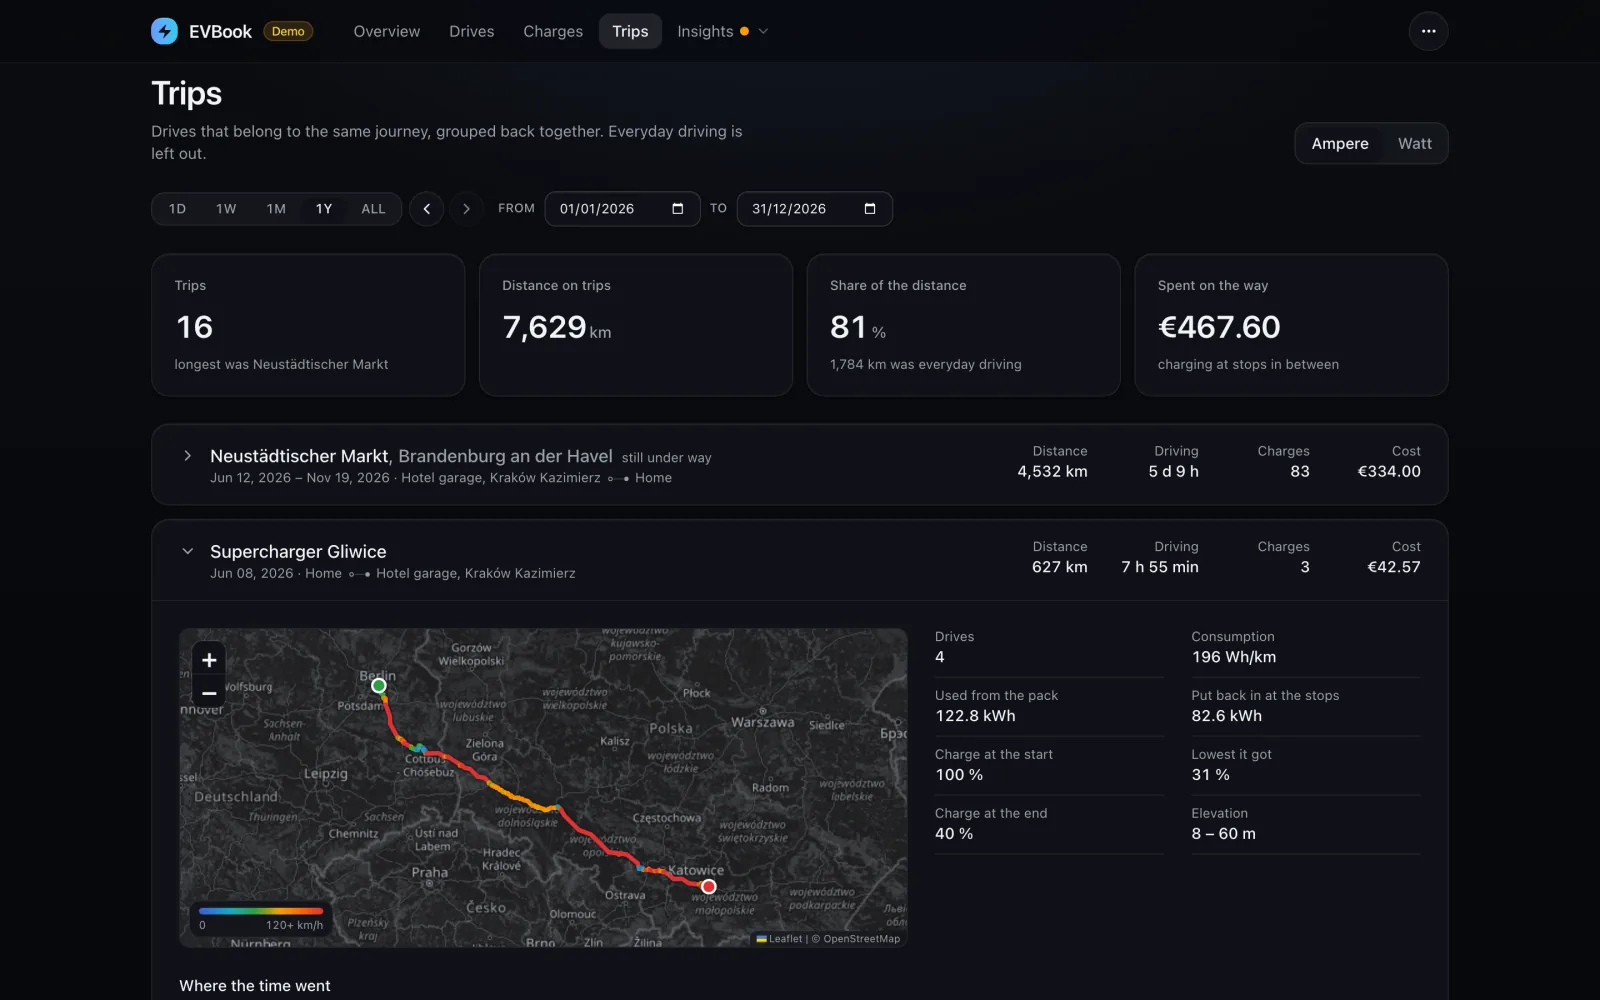
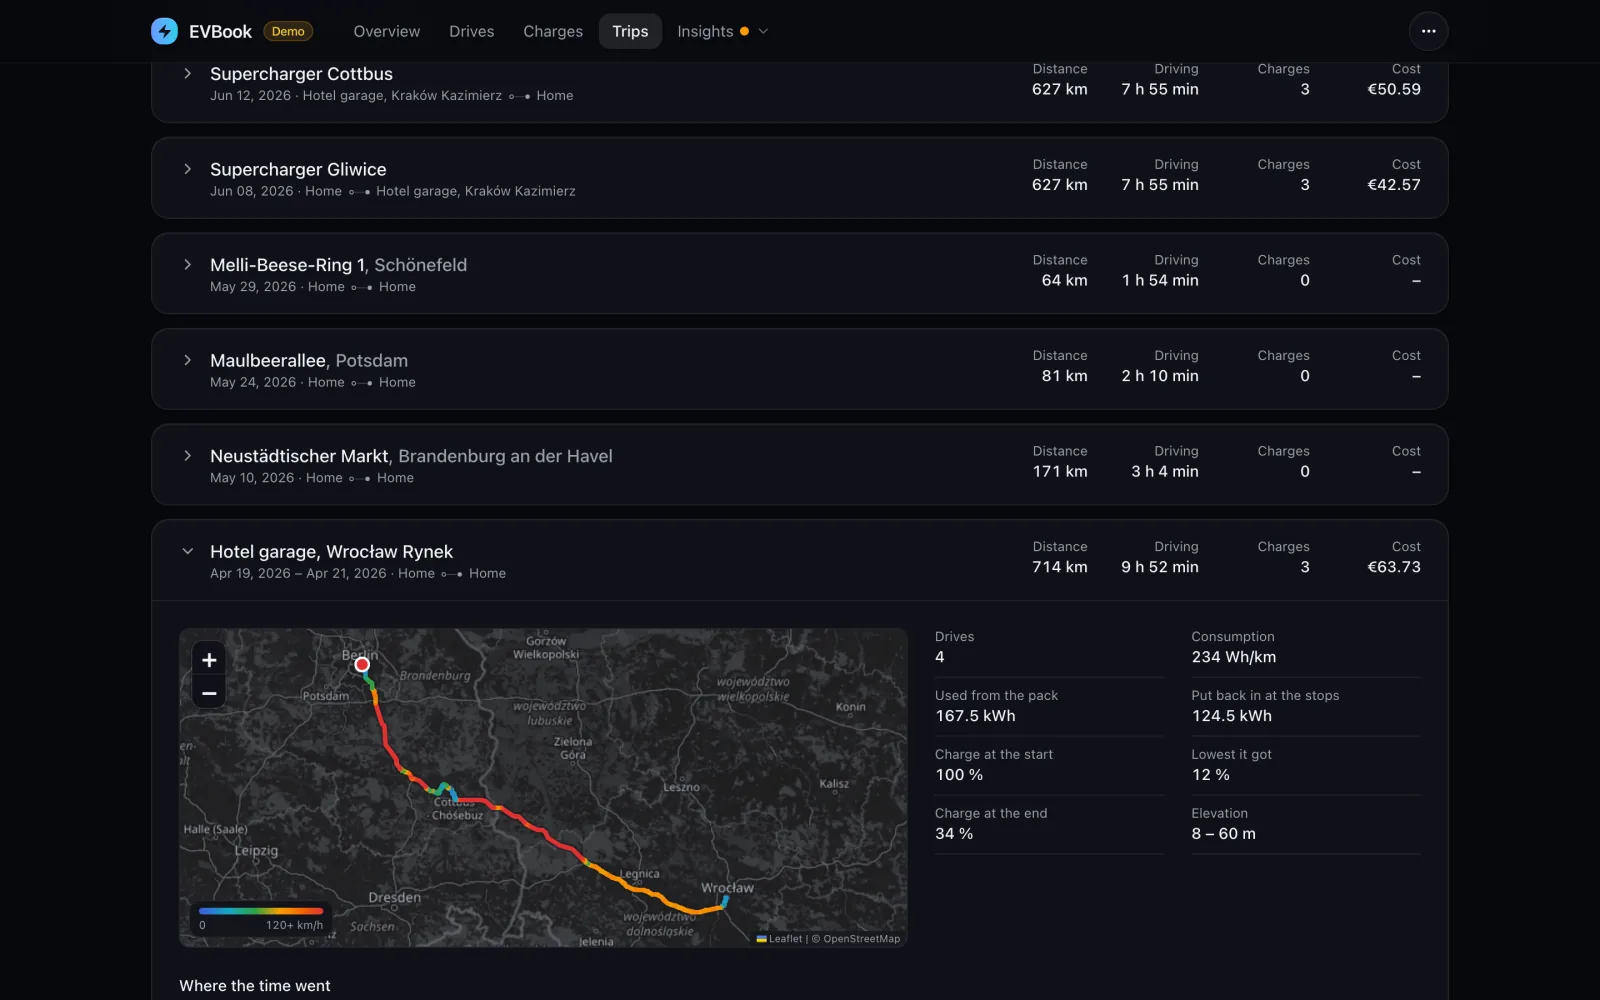
End the way home at home after a stay of days away
Two days parked ends a run wherever it is, so a stay of three nights at the
far end of a journey ended the outward trip at the hotel. The way back then
had only the hotel to return to: it never ended, and every drive after it
was glued on as one trip still under way months later. A run that rule 2
ends away from its origin now passes that origin on, so the next run also
ends when the car settles back there.

The trips screenshot opened the second row, which relied on the newest trip
being the broken one; it now opens the longest trip listed.

diff --git a/src/core/trips.ts b/src/core/trips.ts
@@ -15,7 +15,9 @@
  *    because an overnight stop on a road trip is longer than an evening at home.
  * 2. **You stopped moving.** Two days parked ends a run wherever it is. This is
  *    the net under rule 1, for the journey that never returns and for the drive
- *    whose place the geocoder never resolved.
+ *    whose place the geocoder never resolved. When it ends a run away from where
+ *    that run began, the next run can still end by coming back there: the way
+ *    home after a long stay is over at home.
  *
  * Then a run has to be worth calling a trip: far enough, and more than one drive.
  * A single long drive is already a first-class thing here with its own page, map
@@ -216,14 +218,19 @@ function lastDrive(run: TripDrive[]): TripDrive {
   return run.reduce((furthest, drive) => (endOf(drive) >= endOf(furthest) ? drive : furthest));
 }
 
-function isBoundary(run: TripDrive[], origin: TripPlace | null, nextAt: number, opts: TripOptions): boolean {
+/** Whether the car is standing at one of the places a return would come back to. */
+function isAt(place: TripPlace, homes: TripPlace[]): boolean {
+  return homes.some((home) => samePlace(place, home));
+}
+
+function isBoundary(run: TripDrive[], homes: TripPlace[], nextAt: number, opts: TripOptions): boolean {
   if (run.length === 0) return false;
 
   const previous = lastDrive(run);
   const gap = nextAt - endOf(previous);
   if (gap >= opts.longStopMs) return true;
 
-  return origin != null && samePlace(previous.endPlace, origin) && gap >= opts.returnStopMs;
+  return isAt(previous.endPlace, homes) && gap >= opts.returnStopMs;
 }
 
 function qualifies(run: TripDrive[], opts: TripOptions): boolean {
@@ -244,29 +251,41 @@ function qualifies(run: TripDrive[], opts: TripOptions): boolean {
  */
 export function detectTrips(input: TripDrive[], opts: TripOptions): TripRun[] {
   const drives = normalizeTripDrives(input);
-  const runs: { origin: TripPlace | null; drives: TripDrive[] }[] = [];
+  const runs: { homes: TripPlace[]; drives: TripDrive[] }[] = [];
   let current: TripDrive[] = [];
-  let origin: TripPlace | null = null;
+  // The places a return to would end the current run: its own origin, and the
+  // origins of the runs before it that rule 2 ended away from home. A stay of
+  // days at the far end ends the outward run there, so the way back starts from
+  // the hotel — and with only the hotel to return to, it never ended, and every
+  // commute after it was glued on as one trip still under way months later.
+  let homes: TripPlace[] = [];
   // Where the car stood before the current run began — carried across the
   // boundary so `originOf` can prefer it over the opening drive's start.
   let parkedAt: TripPlace | null = null;
+  let carried: TripPlace[] = [];
 
   for (const drive of drives) {
-    if (current.length > 0 && isBoundary(current, origin, drive.startAt, opts)) {
-      runs.push({ origin, drives: current });
+    if (current.length > 0 && isBoundary(current, homes, drive.startAt, opts)) {
+      runs.push({ homes, drives: current });
       parkedAt = lastDrive(current).endPlace;
+      // Back at a home: the journey is over and nothing carries. Anywhere else,
+      // the homes stay places the next run can come back to.
+      carried = isAt(parkedAt, homes) ? [] : homes;
       current = [];
     }
-    if (current.length === 0) origin = originOf(parkedAt, drive);
+    if (current.length === 0) {
+      const origin = originOf(parkedAt, drive);
+      homes = origin == null ? carried : [origin, ...carried.filter((home) => !samePlace(home, origin))];
+    }
     current.push(drive);
   }
-  if (current.length > 0) runs.push({ origin, drives: current });
+  if (current.length > 0) runs.push({ homes, drives: current });
 
   return (
     runs
       .filter((run) => qualifies(run.drives, opts))
       // The trailing gap is measured against now, so a run that ended last month is
       // closed by rule 2 without anything having to follow it.
-      .map((run) => ({ drives: run.drives, closed: isBoundary(run.drives, run.origin, opts.now, opts) }))
+      .map((run) => ({ drives: run.drives, closed: isBoundary(run.drives, run.homes, opts.now, opts) }))
   );
 }

diff --git a/src/core/trips.test.ts b/src/core/trips.test.ts
@@ -107,6 +107,40 @@ describe("trip detection", () => {
     ]);
   });
 
+  it("ends the way home at home after a stay of days at the far end", () => {
+    // Three nights at the hotel end the outward run by rule 2, so the way back
+    // starts from the hotel. It is over once the car is home, not when it next
+    // stands still for two days: the commute that follows is not part of it.
+    const trips = detect([
+      drive({ id: 1, at: START, km: 300, from: "home", to: "charger" }),
+      drive({ id: 2, at: START + 4 * HOUR, km: 200, from: "charger", to: "hotel" }),
+      drive({ id: 3, at: START + 4 * DAY, km: 200, from: "hotel", to: "charger" }),
+      drive({ id: 4, at: START + 4 * DAY + 4 * HOUR, km: 300, from: "charger", to: "home" }),
+      drive({ id: 5, at: START + 5 * DAY, km: 25, from: "home", to: "work" }),
+      drive({ id: 6, at: START + 5 * DAY + 9 * HOUR, km: 25, from: "work", to: "home" }),
+      drive({ id: 7, at: START + 6 * DAY, km: 25, from: "home", to: "work" }),
+      drive({ id: 8, at: START + 6 * DAY + 9 * HOUR, km: 25, from: "work", to: "home" }),
+    ]);
+
+    expect(trips.map((t) => t.drives.map((d) => d.id))).toEqual([
+      [1, 2],
+      [3, 4],
+    ]);
+  });
+
+  it("closes the way home once the car has settled there, while the commute goes on", () => {
+    const drives = [
+      drive({ id: 1, at: START, km: 300, from: "home", to: "hotel" }),
+      drive({ id: 2, at: START + 3 * DAY, km: 200, from: "hotel", to: "charger" }),
+      drive({ id: 3, at: START + 3 * DAY + 4 * HOUR, km: 100, from: "charger", to: "home" }),
+      drive({ id: 4, at: START + 4 * DAY, km: 25, from: "home", to: "work" }),
+    ];
+
+    // Read the next morning, with the car at work: the trip is over, not still under way.
+    const trips = detectTrips(drives, { ...TRIP_DEFAULTS, now: START + 4 * DAY + 2 * HOUR });
+    expect(trips.map((t) => [t.drives.map((d) => d.id), t.closed])).toEqual([[[2, 3], true]]);
+  });
+
   it("leaves the commute out of it", () => {
     const trips = detect([
       drive({ id: 1, at: START, km: 25, from: "home", to: "work" }),

diff --git a/README.md b/README.md
@@ -125,7 +125,7 @@ upgrade. Prefer your own box? The same app runs as one Docker container.
     <td width="50%" valign="top">
       <picture>
         <source media="(prefers-color-scheme: dark)" srcset="docs/media/trips-dark.webp">
-        <img src="docs/media/trips-light.webp" alt="Road trips in EVBook: a journey from Berlin to Kraków opened, its route coloured by speed, with distance, charging stops and cost">
+        <img src="docs/media/trips-light.webp" alt="Road trips in EVBook: a weekend from Berlin to Wrocław and back opened, its route coloured by speed, with distance, charging stops and cost">
       </picture>
       <br>
       <b>Trips</b> — the drives of one journey put back together: the route
